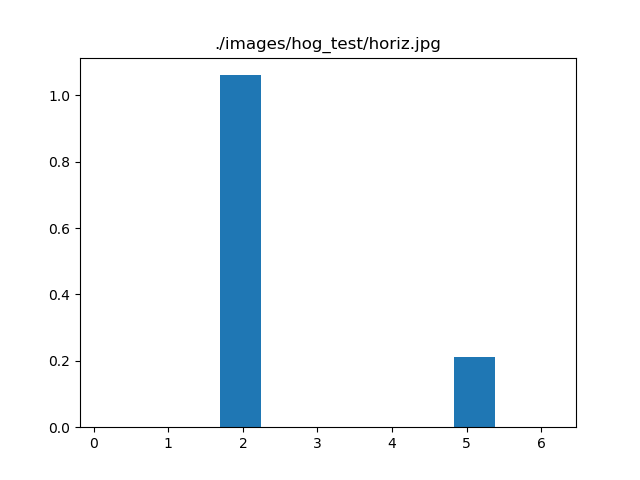
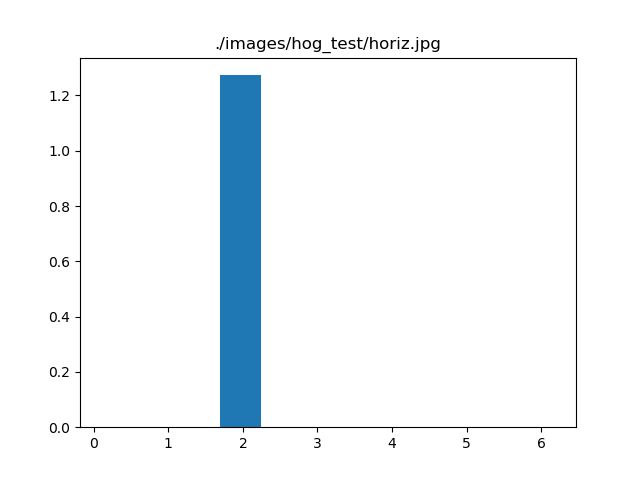
finished the HOG algorithm and created new plots. problem was the used image that was not converted but instead loaded in gray -> needs to be (m,n) but was instead (m,n,3)

diff --git a/lfi-02/simple_hog.py b/lfi-02/simple_hog.py
@@ -2,16 +2,34 @@
 # -*- coding: utf-8 -*-
 """
 Created on Fri Nov  8 19:24:31 2019
+This skript displays a descriptor as a Histogram of Oriented 
+Gradients (HOG), to detect shapes or edges. By computing the magnitude 
+and the angle of a grayscaled image.
+
+Additional information and sources:
+    * https://opencv-python-tutroals.readthedocs.io/en/latest/py_tutorials/py_imgproc/py_gradients/py_gradients.html
+        This describes a better way to use sobel filter eventhough the img is in uint8
+        Output dtype = cv2.CV_64F. Then take its absolute and convert to cv2.CV_8U did not work for angle calculation
+    
+    * The magnitude represents the intensity of the pixel and the orientation gives the direction for the same.
+        https://www.analyticsvidhya.com/blog/2019/10/detailed-guide-powerful-sift-technique-image-matching-python/
+  
+    * Where magnitude is Zero this regions are not interesting. They tend to be without Edges or anything else
+        this regions are mostly plain like a white sheet of paper
+        
 
 @author: Konstantin Schuckmann
 """
+# no used because plt did not work with TkAgg
+# import matplotlib
+# matplotlib.use('TkAgg')
+
 import numpy as np
 import cv2
 import math
-import matplotlib
-#matplotlib.use('TkAgg')
 import matplotlib.pyplot as plt
 import glob
+# important for defining own path 
 import os
 
 ###############################################################
@@ -21,7 +39,11 @@ import os
 ###############################################################
 
 
-def plot_histogram(hist, bins,path):
+def plot_histogram(hist, bins, path):
+    """ Input: histogram values of image, number of bins for seperation, path or String for title
+    This function plots a figure
+    No return
+    """
     width = 0.7 * (bins[1] - bins[0])
     center = (bins[:-1] + bins[1:]) / 2
     plt.figure()
@@ -30,20 +52,19 @@ def plot_histogram(hist, bins,path):
     plt.show()
 
 
-def compute_simple_hog(imgcolor, keypoints, imgpath):
-
-    # convert color to gray image and extract feature in gray
-
+def compute_simple_hog(imggray, keypoints, imgpath):
+    """Input: image in gray, the calculated keypoints, imgpath for name of plot
+    This function calculates the HOG by using the gradient the angle and the magnitude of 
+    an Image for every given Keypoint. After that it plots the HOG.
+    
+    return: a descriptor
+    
+    """
     # compute x and y gradients (sobel kernel size 5)
-    # https://opencv-python-tutroals.readthedocs.io/en/latest/py_tutorials/py_imgproc/py_gradients/py_gradients.html
-    # This describes a better way to use sobel filter eventhough the img is in uint8
-    # Output dtype = cv2.CV_64F. Then take its absolute and convert to cv2.CV_8U did not work for angle calculation
-    sobel_x = cv2.Sobel(imgcolor,cv2.CV_64F,1,0,ksize=5)
-    sobel_y = cv2.Sobel(imgcolor,cv2.CV_64F,0,1,ksize=5)
+    sobel_x = cv2.Sobel(imggray,cv2.CV_32FC1,1,0,ksize=5)
+    sobel_y = cv2.Sobel(imggray,cv2.CV_32FC1,0,1,ksize=5)
 
     # compute magnitude and angle of the gradients
-    # The magnitude represents the intensity of the pixel and the orientation gives the direction for the same.
-    # https://www.analyticsvidhya.com/blog/2019/10/detailed-guide-powerful-sift-technique-image-matching-python/
     angleGr = cv2.phase(sobel_x,sobel_y, angleInDegrees = False)
     magGr = cv2.magnitude(sobel_x,sobel_y)
 
@@ -51,24 +72,25 @@ def compute_simple_hog(imgcolor, keypoints, imgpath):
     descr = np.zeros((len(keypoints), 8), np.float32)
     count = 0
     for kp in keypoints:
+        
         # print kp.pt, kp.size
         print(f'Keypoint: {kp.pt}\nSize: {kp.size}')
         x, y = kp.pt            
-        # extract gradient magnitude in keypoint subwindow
         
-        pt = calc_surrounding_keypoint(x,y,kp.size)
+        pt = calc_surrounding_keypoint(x,y,kp.size)        
+        # print the corners that define the subwindow
+        print(f'The top left corner is {[pt[0][0],pt[1][0]]} and the buttom right corner is {[pt[0][1],pt[1][1]]}\n')
+
+        # extract gradient magnitude in keypoint subwindow        
         magKp = magGr[pt[0][0]:pt[0][1],pt[1][0]:pt[1][1]]
         # extract angle in keypoint sub window
         angleKp = angleGr[pt[0][0]:pt[0][1],pt[1][0]:pt[1][1]]
         
         # create histogram of angle in subwindow BUT only where magnitude of gradients is non zero! Why? Find an
         # answer to that question use np.histogram
-        
         angleKp = angleKp[magKp > 0]
-        # Where magnitude is Zero this regions are not interesting. They tend to be without Edges or anything else
-        # this regions are mostly plain like a white sheet of paper
+
         #(hist, bins) = np.histogram(...)
-        
         (hist, bins) = np.histogram(angleKp, bins = 8, density = True, range = (0, 2*np.pi))
         plot_histogram(hist, bins, imgpath)
 
@@ -76,22 +98,35 @@ def compute_simple_hog(imgcolor, keypoints, imgpath):
 
     return descr
 
-def load_image(path):
-    img = cv2.imread(path, cv2.COLOR_BGR2GRAY)
-    img = np.float32(img)
-    return img
+def load_image_and_cvt(path):
+    """ Input: path to image
+    This functions reads the image and converts it into grayscale 
+    return: gray image
+    """
+    img = cv2.imread(path)
+    # this step is important for edge detection , reading the image in gray is not enough
+    imggray = cv2.cvtColor(img, cv2.COLOR_BGR2GRAY)
+    imggray = np.float32(imggray)
+    return imggray
 
 def calc_surrounding_keypoint(point_x_of_kp, point_y_of_kp, size):
+    """Input: x and y of Keypoint and the Keypoint size 
+    This function calculates the buttom right and top left corner for subwindow
+    return: List with points for subwindow [[tl_x,br_x],[tl_y,br_y]]
+    """
+    # modulo calculation
     mod = lambda x,md: x%md      
-    # not taken into account if the picture has the calculated values
+    
+    # floor calculation to stick with given size around the Keypoint
     dev = math.floor(size/2)
     
     pt_x_top_left = point_x_of_kp - dev
     pt_y_top_left = point_y_of_kp - dev
     
     pt_x_botom_right = point_x_of_kp + dev
-    pt_y_botom_right = point_y_of_kp + dev 
+    pt_y_botom_right = point_y_of_kp + dev
     
+    # if the given size is odd create odd subwindow
     if mod(size,2) == 1:
         pt_x_botom_right = point_x_of_kp + dev + 1
         pt_y_botom_right = point_y_of_kp + dev + 1    
@@ -101,16 +136,12 @@ def calc_surrounding_keypoint(point_x_of_kp, point_y_of_kp, size):
 keypoints = [cv2.KeyPoint(15, 15, 11)]
 
 # test for all test images
-# preprocessing and load
-os.chdir("/Users/Kostja/Desktop/Master/Sem 5 (19:20 WiSe)/Learning from Images/Assignments/lfi-02")
+# preprocessing and load the images
+# os.chdir("/Users/Kostja/Desktop/Master/Sem 5 (19:20 WiSe)/Learning from Images/Assignments/lfi-02")
 img = glob.glob('./images/hog_test/*.jpg')
-images = [load_image(img[i]) for i in range(len(img))]
+images = [load_image_and_cvt(img[i]) for i in range(len(img))]
 
 
 descriptor = []
-# test = cv2.imread('./images/hog_test/diag.jpg')
 descriptor = [compute_simple_hog(images[i], keypoints, img[i]) for i in range(len(images))]
-
-
-
 
